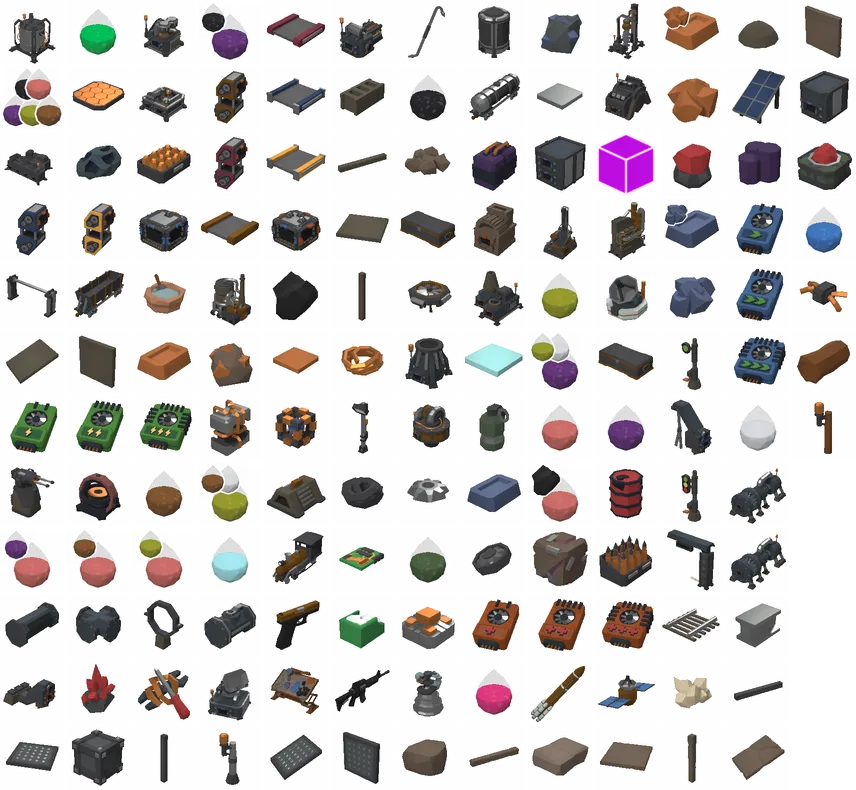
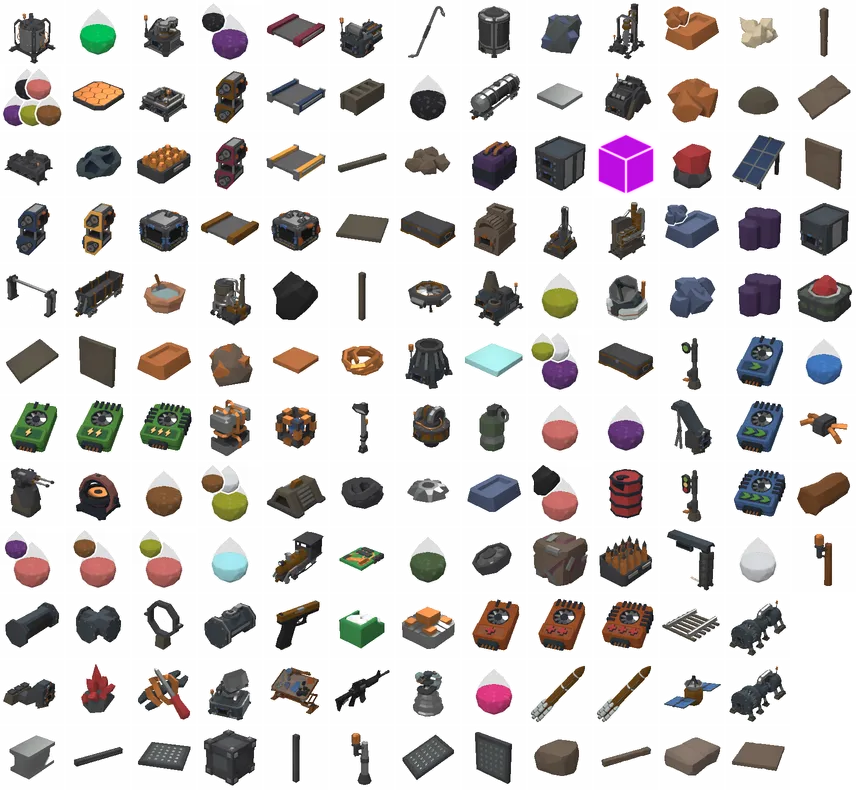
get latest recipe data

Changed region(s): [[0.8505, 0.0, 1.0, 0.8203], [0.0, 0.8506, 0.9416, 1.0], [0.8505, 0.0, 0.9112, 0.0608]]

diff --git a/scripts/belts-of-iron-build.ts b/scripts/belts-of-iron-build.ts
@@ -73,6 +73,13 @@ async function processMod(): Promise<void> {
 
   const modData: ModData = getJsonData(tempDataPath) as ModData;
   modData.version = { boi: '0.4.0' };
+  modData.flags = [
+    'consumptionAsDrain',
+    'miningProductivity',
+    'miningDepletion',
+    'power',
+  ];
+
   modData.categories = [
     {
       id: 'logistics',
